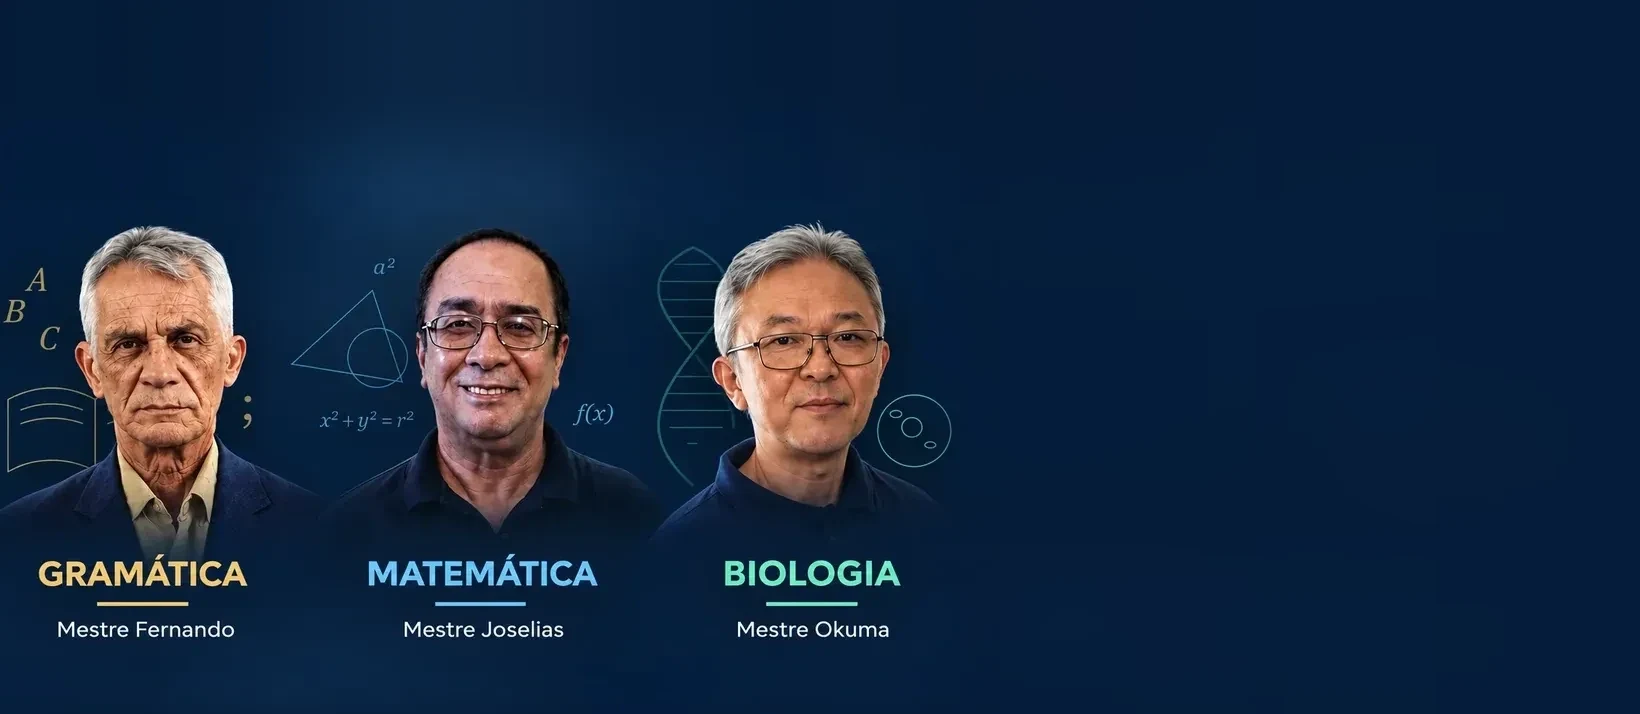
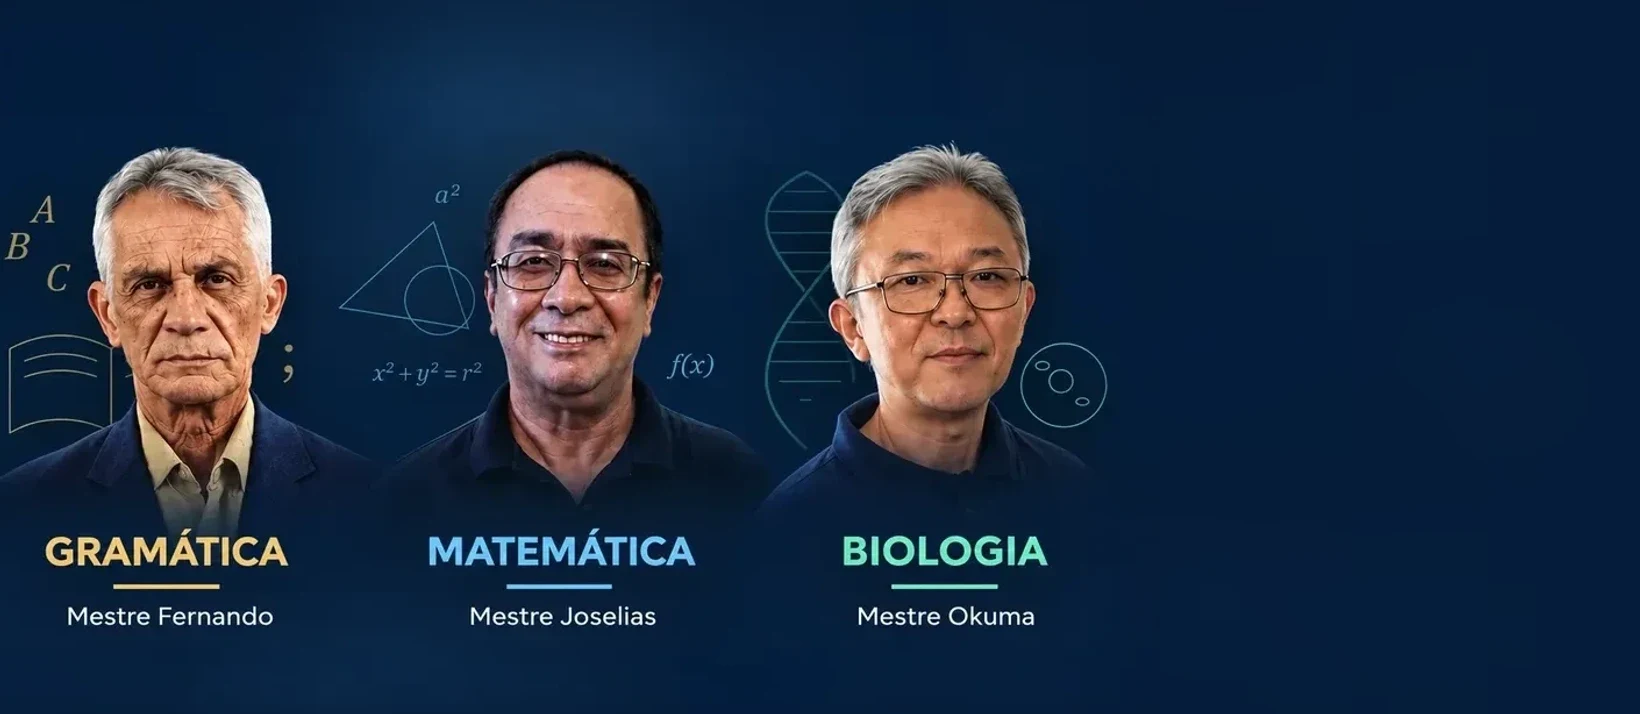
Carrossel: computador com a mesma composicao do tablet (artes largas 3:1), so o selo, espacos simetricos, professores maiores

Changed region(s): [[0.0, 0.1849, 0.653, 0.8936], [0.653, 0.5546, 0.6841, 0.5854]]

diff --git a/public/style.css b/public/style.css
@@ -324,7 +324,7 @@ body:has(.student-shell) .whatsapp-float{display:none}
 .visually-hidden{position:absolute!important;width:1px;height:1px;padding:0;margin:-1px;overflow:hidden;clip:rect(0 0 0 0);white-space:nowrap;border:0}
 
 /* Topo no tablet (621 a 1024 px): mesma arte vertical do celular ao lado do texto real, com altura igual em todos os destaques. */
-@media(min-width:621px) and (max-width:1024px){
+@media(min-width:621px){
 .hero,.hero:has(.campaign-banner){height:auto;border-radius:0}
 .hero .campaign-banner:has(source){display:grid;grid-template-columns:minmax(0,11fr) minmax(0,9fr);padding-bottom:0;background:#061b35}
 .hero .campaign-banner:has(source)>a{aspect-ratio:7/5;min-height:100%}
@@ -441,16 +441,16 @@ html,body{overflow-x:clip}
 
 /* Marca GETEPÊ sobre a foto do carrossel no celular e no tablet (as artes móveis não têm o logo). */
 .campaign-brand{display:none}
-@media(max-width:1024px){
+@media(min-width:0px){
 .hero .campaign-banner:has(source)>a{position:relative}
 .hero .campaign-banner:has(source) .campaign-brand{display:flex;position:absolute;left:0;right:0;top:0;z-index:2;align-items:center;gap:10px;padding:14px 16px 34px;background:linear-gradient(180deg,rgba(6,27,53,.88) 0%,rgba(6,27,53,.55) 55%,rgba(6,27,53,0) 100%);color:#fff;pointer-events:none}
 .hero .campaign-banner:has(source) .campaign-brand img{width:48px;height:48px;flex:none;filter:drop-shadow(0 1px 3px rgba(0,0,0,.45))}
 .hero .campaign-banner:has(source) .campaign-brand>span{display:flex;flex-direction:column;font-weight:800;font-size:24px;line-height:1;letter-spacing:.5px;text-shadow:0 1px 4px rgba(0,0,0,.45)}
 .hero .campaign-banner:has(source) .campaign-brand small{margin-top:5px;font-size:9.5px;font-weight:600;letter-spacing:2px}
 }
-@media(min-width:621px) and (max-width:1024px){.hero .campaign-banner:has(source) .campaign-brand{padding:18px 20px 40px}.hero .campaign-banner:has(source) .campaign-brand img{width:56px;height:56px}.hero .campaign-banner:has(source) .campaign-brand>span{font-size:28px}}
+@media(min-width:621px){.hero .campaign-banner:has(source) .campaign-brand{padding:18px 20px 40px}.hero .campaign-banner:has(source) .campaign-brand img{width:56px;height:56px}.hero .campaign-banner:has(source) .campaign-brand>span{font-size:28px}}
 /* Celular e tablet: painel do texto e faixa das setas no mesmo azul com névoa das artes (bordas #051c3a, brilho #0b2644). */
-@media(max-width:1024px){
+@media(min-width:0px){
 .hero:has(.campaign-banner source){background:#051c3a}
 .hero .campaign-banner:has(source){background:#051c3a}
 .hero .campaign-banner:has(source) .campaign-mobile-copy{background:radial-gradient(130% 95% at 35% 40%,#103057 0%,#0a2546 42%,#051c3a 100%)}
@@ -458,7 +458,7 @@ html,body{overflow-x:clip}
 }
 @media(max-width:620px){.hero .campaign-banner:has(source) .campaign-mobile-copy{background:radial-gradient(140% 110% at 50% 0%,#0d2b4f 0%,#08223f 50%,#051c3a 100%)}}
 /* Celular e tablet: o carrossel inteiro é um fundo só no azul com névoa; a foto esmaece nas bordas e o texto e as setas ficam sobre o mesmo fundo. */
-@media(max-width:1024px){
+@media(min-width:0px){
 .hero:has(.campaign-banner source){background:radial-gradient(120% 110% at 28% 32%,#0f2d51 0%,#0a2545 40%,#051c3a 78%,#041a35 100%)}
 .hero .campaign-banner:has(source),.hero .campaign-banner:has(source) .campaign-mobile-copy,.hero:has(.campaign-banner source) .hero-bottom{background:transparent}
 .hero .campaign-banner:has(source) picture img{-webkit-mask-image:linear-gradient(to right,#000 80%,transparent 100%),linear-gradient(to bottom,#000 80%,transparent 100%);-webkit-mask-composite:source-in;mask-image:linear-gradient(to right,#000 80%,transparent 100%),linear-gradient(to bottom,#000 80%,transparent 100%);mask-composite:intersect}
@@ -467,42 +467,42 @@ html,body{overflow-x:clip}
 .hero .campaign-banner:has(source) picture img{-webkit-mask-image:linear-gradient(to bottom,#000 75%,transparent 100%);mask-image:linear-gradient(to bottom,#000 75%,transparent 100%)}
 }
 /* Ajuste: o fundo encosta na foto exatamente no tom da borda da arte (#051c3a); a névoa fica só atrás do texto, longe da emenda. */
-@media(min-width:621px) and (max-width:1024px){
+@media(min-width:621px){
 .hero:has(.campaign-banner source){background:radial-gradient(24% 55% at 79% 46%,#0b2747 0%,#08213f 55%,#051c3a 100%) #051c3a}
 }
 @media(max-width:620px){
 .hero:has(.campaign-banner source){background:radial-gradient(70% 30% at 50% 72%,#0a2545 0%,#051c3a 100%) #051c3a}
 }
 /* Divisão foto/texto mais suave: a foto esmaece numa faixa larga. */
-@media(min-width:621px) and (max-width:1024px){
+@media(min-width:621px){
 .hero .campaign-banner:has(source) picture img{-webkit-mask-image:linear-gradient(to right,#000 55%,rgba(0,0,0,.6) 75%,transparent 100%),linear-gradient(to bottom,#000 70%,transparent 100%);mask-image:linear-gradient(to right,#000 55%,rgba(0,0,0,.6) 75%,transparent 100%),linear-gradient(to bottom,#000 70%,transparent 100%)}
 }
 @media(max-width:620px){
 .hero .campaign-banner:has(source) picture img{-webkit-mask-image:linear-gradient(to bottom,#000 60%,rgba(0,0,0,.6) 80%,transparent 100%);mask-image:linear-gradient(to bottom,#000 60%,rgba(0,0,0,.6) 80%,transparent 100%)}
 }
 /* EsPCEx · ESA · EEAR: fundo em verde militar (tons do banner do computador). */
-@media(min-width:621px) and (max-width:1024px){
+@media(min-width:621px){
 .hero:has(.campaign-banner[data-art="carrossel-espcex-janeiro"] source){background:radial-gradient(24% 55% at 79% 46%,#1d3a22 0%,#13291a 55%,#0b1d10 100%) #0b1d10}
 }
 @media(max-width:620px){
 .hero:has(.campaign-banner[data-art="carrossel-espcex-janeiro"] source){background:radial-gradient(70% 30% at 50% 72%,#1a3520 0%,#0b1d10 100%) #0b1d10}
 }
 /* APMBB e EsPCEx (fotos claras): esmaecimento ainda mais longo e gradual até o fundo. */
-@media(min-width:621px) and (max-width:1024px){
+@media(min-width:621px){
 .hero .campaign-banner:is([data-art="carrossel-apmbb-janeiro"],[data-art="carrossel-espcex-janeiro"]):has(source) picture img{-webkit-mask-image:linear-gradient(to right,#000 30%,rgba(0,0,0,.85) 45%,rgba(0,0,0,.6) 60%,rgba(0,0,0,.32) 75%,rgba(0,0,0,.12) 88%,transparent 100%),linear-gradient(to bottom,#000 60%,rgba(0,0,0,.5) 82%,transparent 100%);mask-image:linear-gradient(to right,#000 30%,rgba(0,0,0,.85) 45%,rgba(0,0,0,.6) 60%,rgba(0,0,0,.32) 75%,rgba(0,0,0,.12) 88%,transparent 100%),linear-gradient(to bottom,#000 60%,rgba(0,0,0,.5) 82%,transparent 100%)}
 }
 @media(max-width:620px){
 .hero .campaign-banner:is([data-art="carrossel-apmbb-janeiro"],[data-art="carrossel-espcex-janeiro"]):has(source) picture img{-webkit-mask-image:linear-gradient(to bottom,#000 45%,rgba(0,0,0,.7) 65%,rgba(0,0,0,.3) 85%,transparent 100%);mask-image:linear-gradient(to bottom,#000 45%,rgba(0,0,0,.7) 65%,rgba(0,0,0,.3) 85%,transparent 100%)}
 }
 /* Cursos gravados: a arte já tem o mesmo azul do fundo; esmaece só a borda, para não apagar o Mestre Okuma. */
-@media(min-width:621px) and (max-width:1024px){
+@media(min-width:621px){
 .hero .campaign-banner[data-art="carrossel-cursos-gravados"]:has(source) picture img{-webkit-mask-image:linear-gradient(to right,#000 94%,transparent 100%),linear-gradient(to bottom,#000 90%,transparent 100%);mask-image:linear-gradient(to right,#000 94%,transparent 100%),linear-gradient(to bottom,#000 90%,transparent 100%)}
 }
 @media(max-width:620px){
 .hero .campaign-banner[data-art="carrossel-cursos-gravados"]:has(source) picture img{-webkit-mask-image:linear-gradient(to bottom,#000 90%,transparent 100%);mask-image:linear-gradient(to bottom,#000 90%,transparent 100%)}
 }
 /* Tablet (621–1024px): arte estendida (-tablet) inteira, sem esmaecer a foto; o texto fica sobre a parte que já virou fundo. */
-@media(min-width:621px) and (max-width:1024px){
+@media(min-width:621px){
 .hero .campaign-banner:has(source[srcset*="-tablet"]){display:grid;grid-template-columns:1fr;position:relative}
 .hero .campaign-banner:has(source[srcset*="-tablet"])>a{grid-area:1/1;aspect-ratio:1640/714;min-height:0}
 .hero .campaign-banner:has(source[srcset*="-tablet"]) picture img{aspect-ratio:1640/714;width:100%;height:100%;object-fit:cover;-webkit-mask-image:none;mask-image:none}
@@ -511,33 +511,33 @@ html,body{overflow-x:clip}
 .hero:has(.campaign-banner[data-art="carrossel-espcex-janeiro"] source[srcset*="-tablet"]){background:#0b1d10}
 }
 /* Tablet: setas e bolinhas sobre a arte, embaixo do texto (sem faixa separada). */
-@media(min-width:621px) and (max-width:1024px){
+@media(min-width:621px){
 .hero:has(.campaign-banner source[srcset*="-tablet"]){position:relative}
 .hero:has(.campaign-banner source[srcset*="-tablet"]) .hero-bottom{position:absolute;left:auto;right:0;bottom:10px;transform:none;width:39%;height:36px;justify-content:center;background:transparent;z-index:3}
 .hero:has(.campaign-banner source[srcset*="-tablet"]) .hero-bottom button{filter:drop-shadow(0 1px 3px rgba(0,0,0,.5))}
 }
 /* Celular e tablet: "Nova turma · início em 12/01" como etiqueta dourada em destaque. */
-@media(max-width:1024px){
+@media(min-width:0px){
 .hero .campaign-banner:has(source) .campaign-mobile-copy .eyebrow{display:inline-flex;align-self:flex-start;width:auto;margin:0 0 12px;padding:7px 14px;border-radius:999px;background:#d8b46a;color:#061b35;font-size:13px;font-weight:800;letter-spacing:1.2px;line-height:1.2;box-shadow:0 2px 10px rgba(0,0,0,.25)}
 }
-@media(min-width:621px) and (max-width:1024px){.hero .campaign-banner:has(source) .campaign-mobile-copy .eyebrow{font-size:12px;padding:6px 12px}}
+@media(min-width:621px){.hero .campaign-banner:has(source) .campaign-mobile-copy .eyebrow{font-size:12px;padding:6px 12px}}
 /* Tablet: o carrossel não passa da largura da tela (o texto não corta na borda). */
-@media(min-width:621px) and (max-width:1024px){
+@media(min-width:621px){
 .hero:has(.campaign-banner source[srcset*="-tablet"]){overflow:hidden}
 .hero .campaign-banner:has(source[srcset*="-tablet"]){grid-template-columns:minmax(0,1fr);width:100%;max-width:100%}
 .hero .campaign-banner:has(source[srcset*="-tablet"]) .campaign-mobile-copy{box-sizing:border-box;max-width:39%}
 }
 /* Etiqueta "Nova turma · início em 12/01" maior. */
-@media(max-width:1024px){
+@media(min-width:0px){
 .hero .campaign-banner:has(source) .campaign-mobile-copy .eyebrow{font-size:16px;padding:10px 18px;letter-spacing:1.4px;margin-bottom:14px}
 }
-@media(min-width:621px) and (max-width:1024px){.hero .campaign-banner:has(source) .campaign-mobile-copy .eyebrow{font-size:15px;padding:9px 16px}}
+@media(min-width:621px){.hero .campaign-banner:has(source) .campaign-mobile-copy .eyebrow{font-size:15px;padding:9px 16px}}
 /* Cursos gravados: sem etiqueta; o texto de cima volta a ser simples (o dourado fica só no botão). */
-@media(max-width:1024px){
+@media(min-width:0px){
 .hero .campaign-banner[data-art="carrossel-cursos-gravados"]:has(source) .campaign-mobile-copy .eyebrow{display:block;padding:0;margin:0 0 10px;border-radius:0;background:transparent;box-shadow:none;color:#d8b46a;font-size:12px;font-weight:700;letter-spacing:1.6px}
 }
 /* Tablet: todos os destaques com a mesma altura (a da arte); etiqueta numa linha só. */
-@media(min-width:621px) and (max-width:1024px){
+@media(min-width:621px){
 .hero .campaign-banner:has(source[srcset*="-tablet"]){aspect-ratio:1640/714;grid-template-rows:minmax(0,1fr)}
 .hero .campaign-banner:has(source[srcset*="-tablet"])>a{aspect-ratio:auto;height:100%}
 .hero .campaign-banner:has(source[srcset*="-tablet"]) .campaign-mobile-copy{max-height:100%;overflow:hidden;padding-top:12px;padding-bottom:46px}
@@ -549,4 +549,44 @@ html,body{overflow-x:clip}
 @media(max-width:620px){
 .hero .campaign-banner:has(source) .campaign-mobile-copy{min-height:360px!important;display:flex;flex-direction:column;box-sizing:border-box}
 .hero .campaign-banner:has(source) .campaign-mobile-copy .button{margin-top:auto}
+}
+/* Celular e tablet: navegação é pelo dedo; ficam só as bolinhas (mostram quantos destaques há e qual está aberto), centralizadas. */
+@media(min-width:0px){
+.hero:has(.campaign-banner source) .hero-bottom .slide-controls{display:none!important}
+.hero:has(.campaign-banner source) .hero-bottom{justify-content:center}
+.hero:has(.campaign-banner source) .hero-bottom .dots{margin:0 auto;gap:9px}
+.hero:has(.campaign-banner source) .hero-bottom .dots button{width:9px;height:9px;padding:0}
+.hero .campaign-banner:has(source) .campaign-mobile-copy .eyebrow{font-size:17px;padding:10px 18px}
+}
+@media(min-width:621px){
+.hero:has(.campaign-banner source[srcset*="-tablet"]) .hero-bottom{right:0;width:39%;bottom:14px}
+.hero .campaign-banner:has(source) .campaign-mobile-copy .eyebrow{font-size:14.5px;padding:9px 15px;letter-spacing:1.1px}
+}
+@media(min-width:0px){.hero .campaign-banner[data-art="carrossel-cursos-gravados"]:has(source) .campaign-mobile-copy .eyebrow{white-space:normal!important;font-size:12px!important;padding:0!important;letter-spacing:1.6px!important}}
+/* Carrossel no celular e tablet: só o selo, sem o nome escrito. */
+@media(min-width:0px){.hero .campaign-banner:has(source) .campaign-brand>span{display:none}.hero .campaign-banner:has(source) .campaign-brand img{width:58px;height:58px}}
+@media(min-width:621px){.hero .campaign-banner:has(source) .campaign-brand img{width:64px;height:64px}}
+/* Tablet: espaços iguais — topo do carrossel→etiqueta = etiqueta→título; texto→botão = botão→bolinhas. */
+@media(min-width:621px){
+.hero .campaign-banner:has(source[srcset*="-tablet"]) .campaign-mobile-copy{align-self:stretch;height:100%;max-height:100%;display:flex;flex-direction:column;justify-content:flex-start;padding-top:0;padding-bottom:37px;overflow:visible}
+.hero .campaign-banner:has(source[srcset*="-tablet"]) .campaign-mobile-copy .eyebrow{margin-top:auto!important;margin-bottom:auto!important}
+.hero .campaign-banner:has(source[srcset*="-tablet"]) .campaign-mobile-copy h2{margin-top:0}
+.hero .campaign-banner:has(source[srcset*="-tablet"]) .campaign-mobile-copy p:not(.eyebrow){margin-bottom:0}
+.hero .campaign-banner:has(source[srcset*="-tablet"]) .campaign-mobile-copy .button{margin-top:auto;margin-bottom:auto;align-self:flex-start}
+}
+/* Computador (1025px+): mesma composição do tablet, na proporção 3:1 da arte larga, com textos maiores. */
+@media(min-width:1025px){
+.hero .campaign-banner:has(source[srcset*="-tablet"]){aspect-ratio:2142/714}
+.hero .campaign-banner:has(source[srcset*="-tablet"]) picture img{aspect-ratio:2142/714}
+.hero .campaign-banner:has(source[srcset*="-tablet"]) .campaign-mobile-copy,.hero:has(.campaign-banner source[srcset*="-tablet"]) .hero-bottom{width:42%;max-width:42%}
+.hero .campaign-banner:has(source[srcset*="-tablet"]) .campaign-mobile-copy{padding-left:clamp(24px,3vw,56px);padding-right:clamp(24px,4vw,72px);padding-bottom:calc(37px + 1vw)}
+.hero .campaign-banner:has(source) .campaign-mobile-copy .eyebrow{font-size:clamp(15px,1.15vw,20px);padding:.65em 1.15em}
+.hero .campaign-banner:has(source[srcset*="-tablet"]) .campaign-mobile-copy h2{font-size:clamp(32px,3vw,56px);line-height:1.08}
+.hero .campaign-banner:has(source[srcset*="-tablet"]) .campaign-mobile-copy p:not(.eyebrow){font-size:clamp(16px,1.2vw,21px);line-height:1.5;max-width:34em}
+.hero .campaign-banner:has(source[srcset*="-tablet"]) .campaign-mobile-copy .button{font-size:clamp(15px,1.05vw,19px);padding:.85em 1.5em}
+.hero .campaign-banner:has(source) .campaign-brand{padding:clamp(16px,1.6vw,30px) clamp(18px,2vw,36px)}
+.hero .campaign-banner:has(source) .campaign-brand img{width:clamp(72px,5.5vw,104px);height:clamp(72px,5.5vw,104px)}
+.hero:has(.campaign-banner source[srcset*="-tablet"]) .hero-bottom{bottom:clamp(10px,1vw,18px)}
+.hero:has(.campaign-banner source) .hero-bottom .dots button{width:11px;height:11px}
+.hero .campaign-banner[data-art="carrossel-cursos-gravados"]:has(source) .campaign-mobile-copy .eyebrow{font-size:clamp(13px,.95vw,16px)!important}
 }

diff --git a/public/index.html b/public/index.html
@@ -1,10 +1,10 @@
 <!doctype html>
-<html lang="pt-BR"><head><meta charset="utf-8"><meta name="facebook-domain-verification" content="xtaaq9nm3v6y8pgjj0ixhj1nku29sh"><meta name="viewport" content="width=device-width,initial-scale=1"><title>GETEPÊ · Curso General Telles Pires — Preparatório para Escolas Militares</title><meta name="description" content="GETEPÊ, o Curso General Telles Pires: preparatório para APMBB (Barro Branco), EPCAR, Colégio Naval, EsPCEx, ESA, EEAR e Soldado PMESP desde 1953. Turmas presenciais e online em São Paulo, cursos gravados, apostilas e provas resolvidas."><link rel="icon" type="image/png" href="logo-marinho-teste.png"><link rel="stylesheet" href="style.css?v=90"><link rel="stylesheet" href="/guides.css?v=3"><link rel="stylesheet" href="/search.css?v=21"><script src="/search.js?v=4" defer></script><link rel="stylesheet" href="/newsletter.css?v=6"><link rel="stylesheet" href="/visual-runtime.css?v=3"><script src="/visual-runtime.js?v=3"></script><script src="/medicao.js?v=3" defer></script><script type="application/ld+json">{"@context":"https://schema.org","@type":"EducationalOrganization","name":"GETEPÊ · Curso General Telles Pires","alternateName":["GETEPÊ","GETEPE","Curso General Telles Pires","Curso Telles Pires","Telles Pires","GTP"],"url":"https://getepe.com.br/","logo":"https://getepe.com.br/logo-hd.png","foundingDate":"1953","description":"Preparatório para concursos de escolas militares e da Polícia Militar de São Paulo.","areaServed":"BR","address":{"@type":"PostalAddress","addressLocality":"São Paulo","addressRegion":"SP","addressCountry":"BR"}}</script><script>(()=>{const d=document.documentElement,f=()=>d.style.setProperty('--sbw',(innerWidth-d.clientWidth)+'px');addEventListener('resize',f);addEventListener('DOMContentLoaded',()=>{f();new ResizeObserver(f).observe(document.body)})})()</script><meta name="robots" content="index,follow"><link rel="canonical" href="https://getepe.com.br/"><meta property="og:type" content="website"><meta property="og:title" content="GETEPÊ · Curso General Telles Pires — Preparatório para Escolas Militares"><meta property="og:description" content="GETEPÊ, o Curso General Telles Pires: preparatório para APMBB (Barro Branco), EPCAR, Colégio Naval, EsPCEx, ESA, EEAR e Soldado PMESP desde 1953. Turmas presenciais e online em São Paulo, cursos gravados, apostilas e provas resolvidas."><meta property="og:image" content="https://getepe.com.br/logo-marinho-teste.png"><meta property="og:url" content="https://getepe.com.br/"></head><body><a class="skip-link" href="#app">Pular para o conteúdo</a>
+<html lang="pt-BR"><head><meta charset="utf-8"><meta name="facebook-domain-verification" content="xtaaq9nm3v6y8pgjj0ixhj1nku29sh"><meta name="viewport" content="width=device-width,initial-scale=1"><title>GETEPÊ · Curso General Telles Pires — Preparatório para Escolas Militares</title><meta name="description" content="GETEPÊ, o Curso General Telles Pires: preparatório para APMBB (Barro Branco), EPCAR, Colégio Naval, EsPCEx, ESA, EEAR e Soldado PMESP desde 1953. Turmas presenciais e online em São Paulo, cursos gravados, apostilas e provas resolvidas."><link rel="icon" type="image/png" href="logo-marinho-teste.png"><link rel="stylesheet" href="style.css?v=99"><link rel="stylesheet" href="/guides.css?v=3"><link rel="stylesheet" href="/search.css?v=21"><script src="/search.js?v=4" defer></script><link rel="stylesheet" href="/newsletter.css?v=6"><link rel="stylesheet" href="/visual-runtime.css?v=3"><script src="/visual-runtime.js?v=3"></script><script src="/medicao.js?v=3" defer></script><script type="application/ld+json">{"@context":"https://schema.org","@type":"EducationalOrganization","name":"GETEPÊ · Curso General Telles Pires","alternateName":["GETEPÊ","GETEPE","Curso General Telles Pires","Curso Telles Pires","Telles Pires","GTP"],"url":"https://getepe.com.br/","logo":"https://getepe.com.br/logo-hd.png","foundingDate":"1953","description":"Preparatório para concursos de escolas militares e da Polícia Militar de São Paulo.","areaServed":"BR","address":{"@type":"PostalAddress","addressLocality":"São Paulo","addressRegion":"SP","addressCountry":"BR"}}</script><script>(()=>{const d=document.documentElement,f=()=>d.style.setProperty('--sbw',(innerWidth-d.clientWidth)+'px');addEventListener('resize',f);addEventListener('DOMContentLoaded',()=>{f();new ResizeObserver(f).observe(document.body)})})()</script><meta name="robots" content="index,follow"><link rel="canonical" href="https://getepe.com.br/"><meta property="og:type" content="website"><meta property="og:title" content="GETEPÊ · Curso General Telles Pires — Preparatório para Escolas Militares"><meta property="og:description" content="GETEPÊ, o Curso General Telles Pires: preparatório para APMBB (Barro Branco), EPCAR, Colégio Naval, EsPCEx, ESA, EEAR e Soldado PMESP desde 1953. Turmas presenciais e online em São Paulo, cursos gravados, apostilas e provas resolvidas."><meta property="og:image" content="https://getepe.com.br/logo-marinho-teste.png"><meta property="og:url" content="https://getepe.com.br/"></head><body><a class="skip-link" href="#app">Pular para o conteúdo</a>
 <div class="preview">GETEPÊ · DESDE 1953 <span>Conheça os cursos e encontre sua preparação</span></div>
 <header><a class="brand" href="#inicio"><span class="brand-mark"><img src="logo-marinho-teste.png" alt="Logotipo oficial do Curso General Telles Pires"></span><span>GETEPÊ<small>CURSO GENERAL TELLES PIRES</small></span></a><nav aria-label="Menu principal"><a href="#cursos">Nossos cursos</a><a href="#apostilas">Apostilas</a><a href="#provas">Provas resolvidas</a><a href="#instituicoes">Sobre as instituições</a><a href="#historia">Desde 1953</a><a href="/guias/">Guias e dúvidas</a><a href="/unidade-sao-paulo/">Unidade</a><a href="#newsletter">Comunidade</a><a href="#contato">Contato</a></nav></header>
 <h1 class="visually-hidden">GETEPÊ · Curso General Telles Pires: preparação para concursos militares em São Paulo e online</h1>
 <main id="app" tabindex="-1"><div class="wrap" role="status"><p>Carregando o conteúdo do GETEPÊ…</p><noscript><p>Turmas presenciais e online para APMBB · Barro Branco, EPCAR, Colégio Naval e EsPCEx, cursos gravados por matéria, apostilas e provas resolvidas. Ative o JavaScript para ver os cursos ou fale com a equipe pelo WhatsApp (11) 95044-0102.</p></noscript></div></main><footer class="site-footer"><div class="footer-grid"><div><a class="brand" href="#inicio">GETEPÊ</a><p>Tradição que ensina.<br>Preparação que transforma.</p><span>Curso General Telles Pires · Desde 1953</span></div><div><h2>Fale com o GETEPÊ</h2><a href="tel:+551132079399">Telefone: (11) 3207 9399</a><a href="https://wa.me/5511971920102" target="_blank" rel="noopener noreferrer">WhatsApp · Atendimento geral ↗</a><a href="https://wa.me/5511950440102" target="_blank" rel="noopener noreferrer">WhatsApp · Cursos online ↗</a></div><div><h2>Acompanhe nossas redes</h2><a href="https://www.instagram.com/getepe/" target="_blank" rel="noopener noreferrer">Instagram · @getepe ↗</a><a href="https://www.facebook.com/getepe/" target="_blank" rel="noopener noreferrer">Facebook · @getepe ↗</a><p>Rua Vergueiro, 819 · Sobreloja 1 · Liberdade<br>São Paulo — SP</p></div></div><div class="footer-bottom"><span>GETEPÊ · Curso General Telles Pires<br><small>Foto do Colégio Naval: <a href="https://commons.wikimedia.org/wiki/File:Col%C3%A9gio_Naval,_Angra_dos_Reis_2019_55.jpg" target="_blank" rel="noopener noreferrer">Mike Peel</a> · <a href="https://creativecommons.org/licenses/by-sa/4.0/" target="_blank" rel="noopener noreferrer">CC BY-SA 4.0</a> · enquadramento adaptado</small></span><a href="/admin">Painel administrativo</a></div></footer>
-<dialog id="modal"><button class="close" aria-label="Fechar janela" onclick="document.querySelector('dialog').close()">×</button><div id="modal-content"></div></dialog><script src="/newsletter.js?v=15"></script><script src="app.js?v=77"></script><script src="/exams-managed.js?v=3"></script><script src="/content-runtime.js?v=13"></script><script src="/shared-content.js?v=4"></script><a class="whatsapp-float" href="https://wa.me/5511950440102" target="_blank" rel="noopener noreferrer" aria-label="Fale com a equipe pelo WhatsApp (abre em nova aba)" title="Fale com a equipe pelo WhatsApp"><svg viewBox="0 0 24 24" aria-hidden="true" focusable="false"><path fill="currentColor" d="M20.52 3.48A11.87 11.87 0 0 0 12.05 0C5.47 0 .12 5.35.12 11.93c0 2.1.55 4.15 1.6 5.96L0 24l6.28-1.65a11.93 11.93 0 0 0 5.77 1.47h.01C18.64 23.82 24 18.47 24 11.89c0-3.19-1.24-6.18-3.48-8.41ZM12.06 21.8a9.89 9.89 0 0 1-5.04-1.38l-.36-.21-3.73.98.99-3.64-.24-.37a9.86 9.86 0 0 1-1.52-5.25c0-5.46 4.44-9.91 9.9-9.91a9.83 9.83 0 0 1 7 2.9 9.84 9.84 0 0 1 2.9 7c0 5.46-4.44 9.88-9.9 9.88Zm5.44-7.4c-.3-.15-1.76-.87-2.03-.97-.27-.1-.47-.15-.67.15-.2.3-.77.97-.94 1.17-.17.2-.35.22-.64.07-.3-.15-1.26-.46-2.39-1.47-.88-.79-1.48-1.76-1.65-2.06-.17-.3-.02-.46.13-.61.13-.13.3-.35.45-.52.15-.17.2-.3.3-.5.1-.2.05-.37-.03-.52-.07-.15-.67-1.61-.91-2.2-.24-.58-.49-.5-.67-.51h-.57c-.2 0-.52.07-.79.37-.27.3-1.04 1.02-1.04 2.48s1.07 2.88 1.22 3.08c.15.2 2.1 3.2 5.08 4.49.71.31 1.27.49 1.7.63.71.23 1.35.2 1.86.12.57-.08 1.76-.72 2.01-1.41.25-.7.25-1.29.17-1.41-.07-.12-.27-.2-.57-.35Z"/></svg></a></body></html>
+<dialog id="modal"><button class="close" aria-label="Fechar janela" onclick="document.querySelector('dialog').close()">×</button><div id="modal-content"></div></dialog><script src="/newsletter.js?v=15"></script><script src="app.js?v=78"></script><script src="/exams-managed.js?v=3"></script><script src="/content-runtime.js?v=13"></script><script src="/shared-content.js?v=4"></script><a class="whatsapp-float" href="https://wa.me/5511950440102" target="_blank" rel="noopener noreferrer" aria-label="Fale com a equipe pelo WhatsApp (abre em nova aba)" title="Fale com a equipe pelo WhatsApp"><svg viewBox="0 0 24 24" aria-hidden="true" focusable="false"><path fill="currentColor" d="M20.52 3.48A11.87 11.87 0 0 0 12.05 0C5.47 0 .12 5.35.12 11.93c0 2.1.55 4.15 1.6 5.96L0 24l6.28-1.65a11.93 11.93 0 0 0 5.77 1.47h.01C18.64 23.82 24 18.47 24 11.89c0-3.19-1.24-6.18-3.48-8.41ZM12.06 21.8a9.89 9.89 0 0 1-5.04-1.38l-.36-.21-3.73.98.99-3.64-.24-.37a9.86 9.86 0 0 1-1.52-5.25c0-5.46 4.44-9.91 9.9-9.91a9.83 9.83 0 0 1 7 2.9 9.84 9.84 0 0 1 2.9 7c0 5.46-4.44 9.88-9.9 9.88Zm5.44-7.4c-.3-.15-1.76-.87-2.03-.97-.27-.1-.47-.15-.67.15-.2.3-.77.97-.94 1.17-.17.2-.35.22-.64.07-.3-.15-1.26-.46-2.39-1.47-.88-.79-1.48-1.76-1.65-2.06-.17-.3-.02-.46.13-.61.13-.13.3-.35.45-.52.15-.17.2-.3.3-.5.1-.2.05-.37-.03-.52-.07-.15-.67-1.61-.91-2.2-.24-.58-.49-.5-.67-.51h-.57c-.2 0-.52.07-.79.37-.27.3-1.04 1.02-1.04 2.48s1.07 2.88 1.22 3.08c.15.2 2.1 3.2 5.08 4.49.71.31 1.27.49 1.7.63.71.23 1.35.2 1.86.12.57-.08 1.76-.72 2.01-1.41.25-.7.25-1.29.17-1.41-.07-.12-.27-.2-.57-.35Z"/></svg></a></body></html>
 
 
 

diff --git a/site-shell.html b/site-shell.html
@@ -1,10 +1,10 @@
 <!doctype html>
-<html lang="pt-BR"><head><meta charset="utf-8"><meta name="facebook-domain-verification" content="xtaaq9nm3v6y8pgjj0ixhj1nku29sh"><meta name="viewport" content="width=device-width,initial-scale=1"><title>GETEPÊ · Curso General Telles Pires — Preparatório para Escolas Militares</title><meta name="description" content="GETEPÊ, o Curso General Telles Pires: preparatório para APMBB (Barro Branco), EPCAR, Colégio Naval, EsPCEx, ESA, EEAR e Soldado PMESP desde 1953. Turmas presenciais e online em São Paulo, cursos gravados, apostilas e provas resolvidas."><link rel="icon" type="image/png" href="logo-marinho-teste.png"><link rel="stylesheet" href="style.css?v=90"><link rel="stylesheet" href="/guides.css?v=3"><link rel="stylesheet" href="/search.css?v=21"><script src="/search.js?v=4" defer></script><link rel="stylesheet" href="/newsletter.css?v=6"><link rel="stylesheet" href="/visual-runtime.css?v=3"><script src="/visual-runtime.js?v=3"></script><script src="/medicao.js?v=3" defer></script><script type="application/ld+json">{"@context":"https://schema.org","@type":"EducationalOrganization","name":"GETEPÊ · Curso General Telles Pires","alternateName":["GETEPÊ","GETEPE","Curso General Telles Pires","Curso Telles Pires","Telles Pires","GTP"],"url":"https://getepe.com.br/","logo":"https://getepe.com.br/logo-hd.png","foundingDate":"1953","description":"Preparatório para concursos de escolas militares e da Polícia Militar de São Paulo.","areaServed":"BR","address":{"@type":"PostalAddress","addressLocality":"São Paulo","addressRegion":"SP","addressCountry":"BR"}}</script><script>(()=>{const d=document.documentElement,f=()=>d.style.setProperty('--sbw',(innerWidth-d.clientWidth)+'px');addEventListener('resize',f);addEventListener('DOMContentLoaded',()=>{f();new ResizeObserver(f).observe(document.body)})})()</script><meta name="robots" content="index,follow"><link rel="canonical" href="https://getepe.com.br/"><meta property="og:type" content="website"><meta property="og:title" content="GETEPÊ · Curso General Telles Pires — Preparatório para Escolas Militares"><meta property="og:description" content="GETEPÊ, o Curso General Telles Pires: preparatório para APMBB (Barro Branco), EPCAR, Colégio Naval, EsPCEx, ESA, EEAR e Soldado PMESP desde 1953. Turmas presenciais e online em São Paulo, cursos gravados, apostilas e provas resolvidas."><meta property="og:image" content="https://getepe.com.br/logo-marinho-teste.png"><meta property="og:url" content="https://getepe.com.br/"></head><body><a class="skip-link" href="#app">Pular para o conteúdo</a>
+<html lang="pt-BR"><head><meta charset="utf-8"><meta name="facebook-domain-verification" content="xtaaq9nm3v6y8pgjj0ixhj1nku29sh"><meta name="viewport" content="width=device-width,initial-scale=1"><title>GETEPÊ · Curso General Telles Pires — Preparatório para Escolas Militares</title><meta name="description" content="GETEPÊ, o Curso General Telles Pires: preparatório para APMBB (Barro Branco), EPCAR, Colégio Naval, EsPCEx, ESA, EEAR e Soldado PMESP desde 1953. Turmas presenciais e online em São Paulo, cursos gravados, apostilas e provas resolvidas."><link rel="icon" type="image/png" href="logo-marinho-teste.png"><link rel="stylesheet" href="style.css?v=99"><link rel="stylesheet" href="/guides.css?v=3"><link rel="stylesheet" href="/search.css?v=21"><script src="/search.js?v=4" defer></script><link rel="stylesheet" href="/newsletter.css?v=6"><link rel="stylesheet" href="/visual-runtime.css?v=3"><script src="/visual-runtime.js?v=3"></script><script src="/medicao.js?v=3" defer></script><script type="application/ld+json">{"@context":"https://schema.org","@type":"EducationalOrganization","name":"GETEPÊ · Curso General Telles Pires","alternateName":["GETEPÊ","GETEPE","Curso General Telles Pires","Curso Telles Pires","Telles Pires","GTP"],"url":"https://getepe.com.br/","logo":"https://getepe.com.br/logo-hd.png","foundingDate":"1953","description":"Preparatório para concursos de escolas militares e da Polícia Militar de São Paulo.","areaServed":"BR","address":{"@type":"PostalAddress","addressLocality":"São Paulo","addressRegion":"SP","addressCountry":"BR"}}</script><script>(()=>{const d=document.documentElement,f=()=>d.style.setProperty('--sbw',(innerWidth-d.clientWidth)+'px');addEventListener('resize',f);addEventListener('DOMContentLoaded',()=>{f();new ResizeObserver(f).observe(document.body)})})()</script><meta name="robots" content="index,follow"><link rel="canonical" href="https://getepe.com.br/"><meta property="og:type" content="website"><meta property="og:title" content="GETEPÊ · Curso General Telles Pires — Preparatório para Escolas Militares"><meta property="og:description" content="GETEPÊ, o Curso General Telles Pires: preparatório para APMBB (Barro Branco), EPCAR, Colégio Naval, EsPCEx, ESA, EEAR e Soldado PMESP desde 1953. Turmas presenciais e online em São Paulo, cursos gravados, apostilas e provas resolvidas."><meta property="og:image" content="https://getepe.com.br/logo-marinho-teste.png"><meta property="og:url" content="https://getepe.com.br/"></head><body><a class="skip-link" href="#app">Pular para o conteúdo</a>
 <div class="preview">GETEPÊ · DESDE 1953 <span>Conheça os cursos e encontre sua preparação</span></div>
 <header><a class="brand" href="#inicio"><span class="brand-mark"><img src="logo-marinho-teste.png" alt="Logotipo oficial do Curso General Telles Pires"></span><span>GETEPÊ<small>CURSO GENERAL TELLES PIRES</small></span></a><nav aria-label="Menu principal"><a href="#cursos">Nossos cursos</a><a href="#apostilas">Apostilas</a><a href="#provas">Provas resolvidas</a><a href="#instituicoes">Sobre as instituições</a><a href="#historia">Desde 1953</a><a href="/guias/">Guias e dúvidas</a><a href="/unidade-sao-paulo/">Unidade</a><a href="#newsletter">Comunidade</a><a href="#contato">Contato</a></nav></header>
 <h1 class="visually-hidden">GETEPÊ · Curso General Telles Pires: preparação para concursos militares em São Paulo e online</h1>
 <main id="app" tabindex="-1"><div class="wrap" role="status"><p>Carregando o conteúdo do GETEPÊ…</p><noscript><p>Turmas presenciais e online para APMBB · Barro Branco, EPCAR, Colégio Naval e EsPCEx, cursos gravados por matéria, apostilas e provas resolvidas. Ative o JavaScript para ver os cursos ou fale com a equipe pelo WhatsApp (11) 95044-0102.</p></noscript></div></main><footer class="site-footer"><div class="footer-grid"><div><a class="brand" href="#inicio">GETEPÊ</a><p>Tradição que ensina.<br>Preparação que transforma.</p><span>Curso General Telles Pires · Desde 1953</span></div><div><h2>Fale com o GETEPÊ</h2><a href="tel:+551132079399">Telefone: (11) 3207 9399</a><a href="https://wa.me/5511971920102" target="_blank" rel="noopener noreferrer">WhatsApp · Atendimento geral ↗</a><a href="https://wa.me/5511950440102" target="_blank" rel="noopener noreferrer">WhatsApp · Cursos online ↗</a></div><div><h2>Acompanhe nossas redes</h2><a href="https://www.instagram.com/getepe/" target="_blank" rel="noopener noreferrer">Instagram · @getepe ↗</a><a href="https://www.facebook.com/getepe/" target="_blank" rel="noopener noreferrer">Facebook · @getepe ↗</a><p>Rua Vergueiro, 819 · Sobreloja 1 · Liberdade<br>São Paulo — SP</p></div></div><div class="footer-bottom"><span>GETEPÊ · Curso General Telles Pires<br><small>Foto do Colégio Naval: <a href="https://commons.wikimedia.org/wiki/File:Col%C3%A9gio_Naval,_Angra_dos_Reis_2019_55.jpg" target="_blank" rel="noopener noreferrer">Mike Peel</a> · <a href="https://creativecommons.org/licenses/by-sa/4.0/" target="_blank" rel="noopener noreferrer">CC BY-SA 4.0</a> · enquadramento adaptado</small></span><a href="/admin">Painel administrativo</a></div></footer>
-<dialog id="modal"><button class="close" aria-label="Fechar janela" onclick="document.querySelector('dialog').close()">×</button><div id="modal-content"></div></dialog><script src="/newsletter.js?v=15"></script><script src="app.js?v=77"></script><script src="/exams-managed.js?v=3"></script><script src="/content-runtime.js?v=13"></script><script src="/shared-content.js?v=4"></script><a class="whatsapp-float" href="https://wa.me/5511950440102" target="_blank" rel="noopener noreferrer" aria-label="Fale com a equipe pelo WhatsApp (abre em nova aba)" title="Fale com a equipe pelo WhatsApp"><svg viewBox="0 0 24 24" aria-hidden="true" focusable="false"><path fill="currentColor" d="M20.52 3.48A11.87 11.87 0 0 0 12.05 0C5.47 0 .12 5.35.12 11.93c0 2.1.55 4.15 1.6 5.96L0 24l6.28-1.65a11.93 11.93 0 0 0 5.77 1.47h.01C18.64 23.82 24 18.47 24 11.89c0-3.19-1.24-6.18-3.48-8.41ZM12.06 21.8a9.89 9.89 0 0 1-5.04-1.38l-.36-.21-3.73.98.99-3.64-.24-.37a9.86 9.86 0 0 1-1.52-5.25c0-5.46 4.44-9.91 9.9-9.91a9.83 9.83 0 0 1 7 2.9 9.84 9.84 0 0 1 2.9 7c0 5.46-4.44 9.88-9.9 9.88Zm5.44-7.4c-.3-.15-1.76-.87-2.03-.97-.27-.1-.47-.15-.67.15-.2.3-.77.97-.94 1.17-.17.2-.35.22-.64.07-.3-.15-1.26-.46-2.39-1.47-.88-.79-1.48-1.76-1.65-2.06-.17-.3-.02-.46.13-.61.13-.13.3-.35.45-.52.15-.17.2-.3.3-.5.1-.2.05-.37-.03-.52-.07-.15-.67-1.61-.91-2.2-.24-.58-.49-.5-.67-.51h-.57c-.2 0-.52.07-.79.37-.27.3-1.04 1.02-1.04 2.48s1.07 2.88 1.22 3.08c.15.2 2.1 3.2 5.08 4.49.71.31 1.27.49 1.7.63.71.23 1.35.2 1.86.12.57-.08 1.76-.72 2.01-1.41.25-.7.25-1.29.17-1.41-.07-.12-.27-.2-.57-.35Z"/></svg></a></body></html>
+<dialog id="modal"><button class="close" aria-label="Fechar janela" onclick="document.querySelector('dialog').close()">×</button><div id="modal-content"></div></dialog><script src="/newsletter.js?v=15"></script><script src="app.js?v=78"></script><script src="/exams-managed.js?v=3"></script><script src="/content-runtime.js?v=13"></script><script src="/shared-content.js?v=4"></script><a class="whatsapp-float" href="https://wa.me/5511950440102" target="_blank" rel="noopener noreferrer" aria-label="Fale com a equipe pelo WhatsApp (abre em nova aba)" title="Fale com a equipe pelo WhatsApp"><svg viewBox="0 0 24 24" aria-hidden="true" focusable="false"><path fill="currentColor" d="M20.52 3.48A11.87 11.87 0 0 0 12.05 0C5.47 0 .12 5.35.12 11.93c0 2.1.55 4.15 1.6 5.96L0 24l6.28-1.65a11.93 11.93 0 0 0 5.77 1.47h.01C18.64 23.82 24 18.47 24 11.89c0-3.19-1.24-6.18-3.48-8.41ZM12.06 21.8a9.89 9.89 0 0 1-5.04-1.38l-.36-.21-3.73.98.99-3.64-.24-.37a9.86 9.86 0 0 1-1.52-5.25c0-5.46 4.44-9.91 9.9-9.91a9.83 9.83 0 0 1 7 2.9 9.84 9.84 0 0 1 2.9 7c0 5.46-4.44 9.88-9.9 9.88Zm5.44-7.4c-.3-.15-1.76-.87-2.03-.97-.27-.1-.47-.15-.67.15-.2.3-.77.97-.94 1.17-.17.2-.35.22-.64.07-.3-.15-1.26-.46-2.39-1.47-.88-.79-1.48-1.76-1.65-2.06-.17-.3-.02-.46.13-.61.13-.13.3-.35.45-.52.15-.17.2-.3.3-.5.1-.2.05-.37-.03-.52-.07-.15-.67-1.61-.91-2.2-.24-.58-.49-.5-.67-.51h-.57c-.2 0-.52.07-.79.37-.27.3-1.04 1.02-1.04 2.48s1.07 2.88 1.22 3.08c.15.2 2.1 3.2 5.08 4.49.71.31 1.27.49 1.7.63.71.23 1.35.2 1.86.12.57-.08 1.76-.72 2.01-1.41.25-.7.25-1.29.17-1.41-.07-.12-.27-.2-.57-.35Z"/></svg></a></body></html>
 
 
 

diff --git a/public/app.js b/public/app.js
@@ -55,7 +55,7 @@ function filteredCourses(f){return courses.filter(c=>f==='presencial'?c.type==='
 function enrollmentButton(c,mode){const e=courseEnrollment(c,mode);return e.url?`<a class="button dark" href="${escapeAdmin(e.url)}"${e.internal?'':' target="_blank" rel="noopener noreferrer"'} aria-label="Matricule-se — ${escapeAdmin(c.short)} — ${mode==='presencial'?'presencial':'online'}">Matricule-se</a>`:'<button class="button dark" disabled>Matricule-se</button><small>Matrícula online em breve.</small>';}
 function cardEnrollment(c){const modes=c.type==='live'&&filter==='all'?['online','presencial']:[filter==='presencial'?'presencial':'online'];return '<div class="card-enrollment">'+modes.map(mode=>'<div><span class="enrollment-mode">'+(mode==='presencial'?'Presencial':'Online')+'</span>'+enrollmentButton(c,mode)+'</div>').join('')+'</div>';}
 function card(c){if(filter==='free')return freeCard(c);return `<article class="card"><a href="#curso/${c.id}${c.type==='live'&&filter==='presencial'?'/presencial':''}" aria-label="Conhecer ${c.name}">${courseVisual(c)}</a><div class="card-body"><h3>${c.name}</h3><p>${c.description}</p><div class="card-meta"><span>${c.type==='live'?'◷ '+c.date:'▷ Aulas gravadas'}</span><span>${c.type==='live'?'Turma ao vivo':'Prazo conforme o curso'}</span></div><a class="button outline" href="#curso/${c.id}${c.type==='live'&&filter==='presencial'?'/presencial':''}">Conhecer o curso <span>↗</span></a>${cardEnrollment(c)}</div></article>`}
-function hero(){if(!slides.length)return '<div class="hero-copy"><h1>GETEPÊ</h1><p>Conheça nossos cursos.</p></div>';const s=slides[slide];if(s.full&&s.image)return `<div class="campaign-banner" data-art="${(s.image.split("/").pop()||"").replace(/\.\w+$/,"").replace(/[^\w-]/g,"")}"><a href="${s.href}" aria-label="${s.action}: ${s.alt}"><picture>${MOBILE_BANNER.has((s.image.split("/").pop()||"").replace(/\.\w+$/,""))?`<source media="(min-width:621px) and (max-width:1024px)" srcset="${im(s.image,"-tablet")}">`:""}${MOBILE_BANNER.has((s.image.split("/").pop()||"").replace(/\.\w+$/,""))?`<source media="(max-width:1024px)" srcset="${im(s.image,"-celular")}">`:""}<img src="${im(s.image)}" alt="${s.alt}" width="2172" height="724" decoding="async" fetchpriority="${slide===0?'high':'auto'}"></picture><span class="campaign-brand" aria-hidden="true"><img src="selo-branco.png" alt="" width="48" height="48"><span>GETEPÊ<small>CURSO GENERAL TELLES PIRES</small></span></span></a><div class="campaign-mobile-copy"><p class="eyebrow">${s.label}</p><h2>${s.title}</h2><p>${s.copy}</p><a class="button" href="${s.href}">${s.action} <span>↗</span></a></div>${s.image==="/carrossel-cursos-gravados.png"?`<div class="banner-overlay"><p class="bo-lead">Estude no seu ritmo.</p><p>Se prepare conforme sua necessidade.</p><a class="button" href="${s.href}">${s.action} ↗</a></div>`:""}${["/carrossel-aprovados-tratados.png","/carrossel-cursos-gravados.png"].includes(s.image)?"":`<a class="campaign-more" href="${s.href}">${s.action} ↗</a>`}</div><div class="hero-bottom"><div class="dots">${slides.map((_,i)=>`<button aria-label="Exibir destaque ${i+1}" aria-pressed="${slide===i}" class="${slide===i?'active':''}" onclick="changeSlide(${i})"></button>`).join('')}</div><div class="slide-controls"><button aria-label="Destaque anterior" onclick="changeSlide(${(slide+slides.length-1)%slides.length})">←</button><button aria-label="Próximo destaque" onclick="changeSlide(${(slide+1)%slides.length})">→</button></div></div>`;return `<div class="hero-copy"><div class="eyebrow">${s.label}</div><h1>${s.title}</h1><p>${s.copy}</p><a href="${s.href}" class="button">${s.action} <span>↗</span></a></div><div class="hero-art">${s.image?`<img class="cms-hero-image" src="${im(s.image)}" alt="${s.alt||''}">`:''}<div class="seal" ${s.image?'hidden':''}><img src="logo-marinho-teste.png" alt="Brasão do Curso General Telles Pires"><div class="since">UMA HISTÓRIA DESDE</div><div class="year">1953</div><div class="seal-label">Disciplina. Conhecimento. Futuro.</div></div></div><div class="hero-bottom"><div class="dots">${slides.map((_,i)=>`<button aria-label="Exibir destaque ${i+1}" aria-pressed="${slide===i}" class="${slide===i?'active':''}" onclick="changeSlide(${i})"></button>`).join('')}</div><div class="slide-controls"><button aria-label="Destaque anterior" onclick="changeSlide(${(slide+slides.length-1)%slides.length})">←</button><button aria-label="Próximo destaque" onclick="changeSlide(${(slide+1)%slides.length})">→</button></div></div>`}
+function hero(){if(!slides.length)return '<div class="hero-copy"><h1>GETEPÊ</h1><p>Conheça nossos cursos.</p></div>';const s=slides[slide];if(s.full&&s.image)return `<div class="campaign-banner" data-art="${(s.image.split("/").pop()||"").replace(/\.\w+$/,"").replace(/[^\w-]/g,"")}"><a href="${s.href}" aria-label="${s.action}: ${s.alt}"><picture>${MOBILE_BANNER.has((s.image.split("/").pop()||"").replace(/\.\w+$/,""))?`<source media="(min-width:1025px)" srcset="${im(s.image,"-largo")}"><source media="(min-width:621px) and (max-width:1024px)" srcset="${im(s.image,"-tablet")}">`:""}${MOBILE_BANNER.has((s.image.split("/").pop()||"").replace(/\.\w+$/,""))?`<source media="(max-width:1024px)" srcset="${im(s.image,"-celular")}">`:""}<img src="${im(s.image)}" alt="${s.alt}" width="2172" height="724" decoding="async" fetchpriority="${slide===0?'high':'auto'}"></picture><span class="campaign-brand" aria-hidden="true"><img src="selo-branco.png" alt="" width="48" height="48"><span>GETEPÊ<small>CURSO GENERAL TELLES PIRES</small></span></span></a><div class="campaign-mobile-copy"><p class="eyebrow">${s.label}</p><h2>${s.title}</h2><p>${s.copy}</p><a class="button" href="${s.href}">${s.action} <span>↗</span></a></div>${s.image==="/carrossel-cursos-gravados.png"?`<div class="banner-overlay"><p class="bo-lead">Estude no seu ritmo.</p><p>Se prepare conforme sua necessidade.</p><a class="button" href="${s.href}">${s.action} ↗</a></div>`:""}${["/carrossel-aprovados-tratados.png","/carrossel-cursos-gravados.png"].includes(s.image)?"":`<a class="campaign-more" href="${s.href}">${s.action} ↗</a>`}</div><div class="hero-bottom"><div class="dots">${slides.map((_,i)=>`<button aria-label="Exibir destaque ${i+1}" aria-pressed="${slide===i}" class="${slide===i?'active':''}" onclick="changeSlide(${i})"></button>`).join('')}</div><div class="slide-controls"><button aria-label="Destaque anterior" onclick="changeSlide(${(slide+slides.length-1)%slides.length})">←</button><button aria-label="Próximo destaque" onclick="changeSlide(${(slide+1)%slides.length})">→</button></div></div>`;return `<div class="hero-copy"><div class="eyebrow">${s.label}</div><h1>${s.title}</h1><p>${s.copy}</p><a href="${s.href}" class="button">${s.action} <span>↗</span></a></div><div class="hero-art">${s.image?`<img class="cms-hero-image" src="${im(s.image)}" alt="${s.alt||''}">`:''}<div class="seal" ${s.image?'hidden':''}><img src="logo-marinho-teste.png" alt="Brasão do Curso General Telles Pires"><div class="since">UMA HISTÓRIA DESDE</div><div class="year">1953</div><div class="seal-label">Disciplina. Conhecimento. Futuro.</div></div></div><div class="hero-bottom"><div class="dots">${slides.map((_,i)=>`<button aria-label="Exibir destaque ${i+1}" aria-pressed="${slide===i}" class="${slide===i?'active':''}" onclick="changeSlide(${i})"></button>`).join('')}</div><div class="slide-controls"><button aria-label="Destaque anterior" onclick="changeSlide(${(slide+slides.length-1)%slides.length})">←</button><button aria-label="Próximo destaque" onclick="changeSlide(${(slide+1)%slides.length})">→</button></div></div>`}
 function stopCarousel(){clearTimeout(carouselTimer);carouselTimer=null}
 function scheduleCarousel(){stopCarousel();const el=document.querySelector('.hero');if(!el||carouselPaused||document.hidden||slides.length<2)return;carouselTimer=setTimeout(()=>changeSlide((slide+1)%slides.length,false),6000)}
 function changeSlide(i,manual=true){if(manual){carouselPaused=true;stopCarousel();}const el=document.querySelector('.hero');if(!el)return;const activeLabel=el.contains(document.activeElement)?document.activeElement.getAttribute('aria-label'):null;slide=i;el.innerHTML=hero();syncHeroCopy();if(activeLabel){const next=[...el.querySelectorAll('button')].find(b=>b.getAttribute('aria-label')===activeLabel);next?.focus({preventScroll:true})}scheduleCarousel()}
